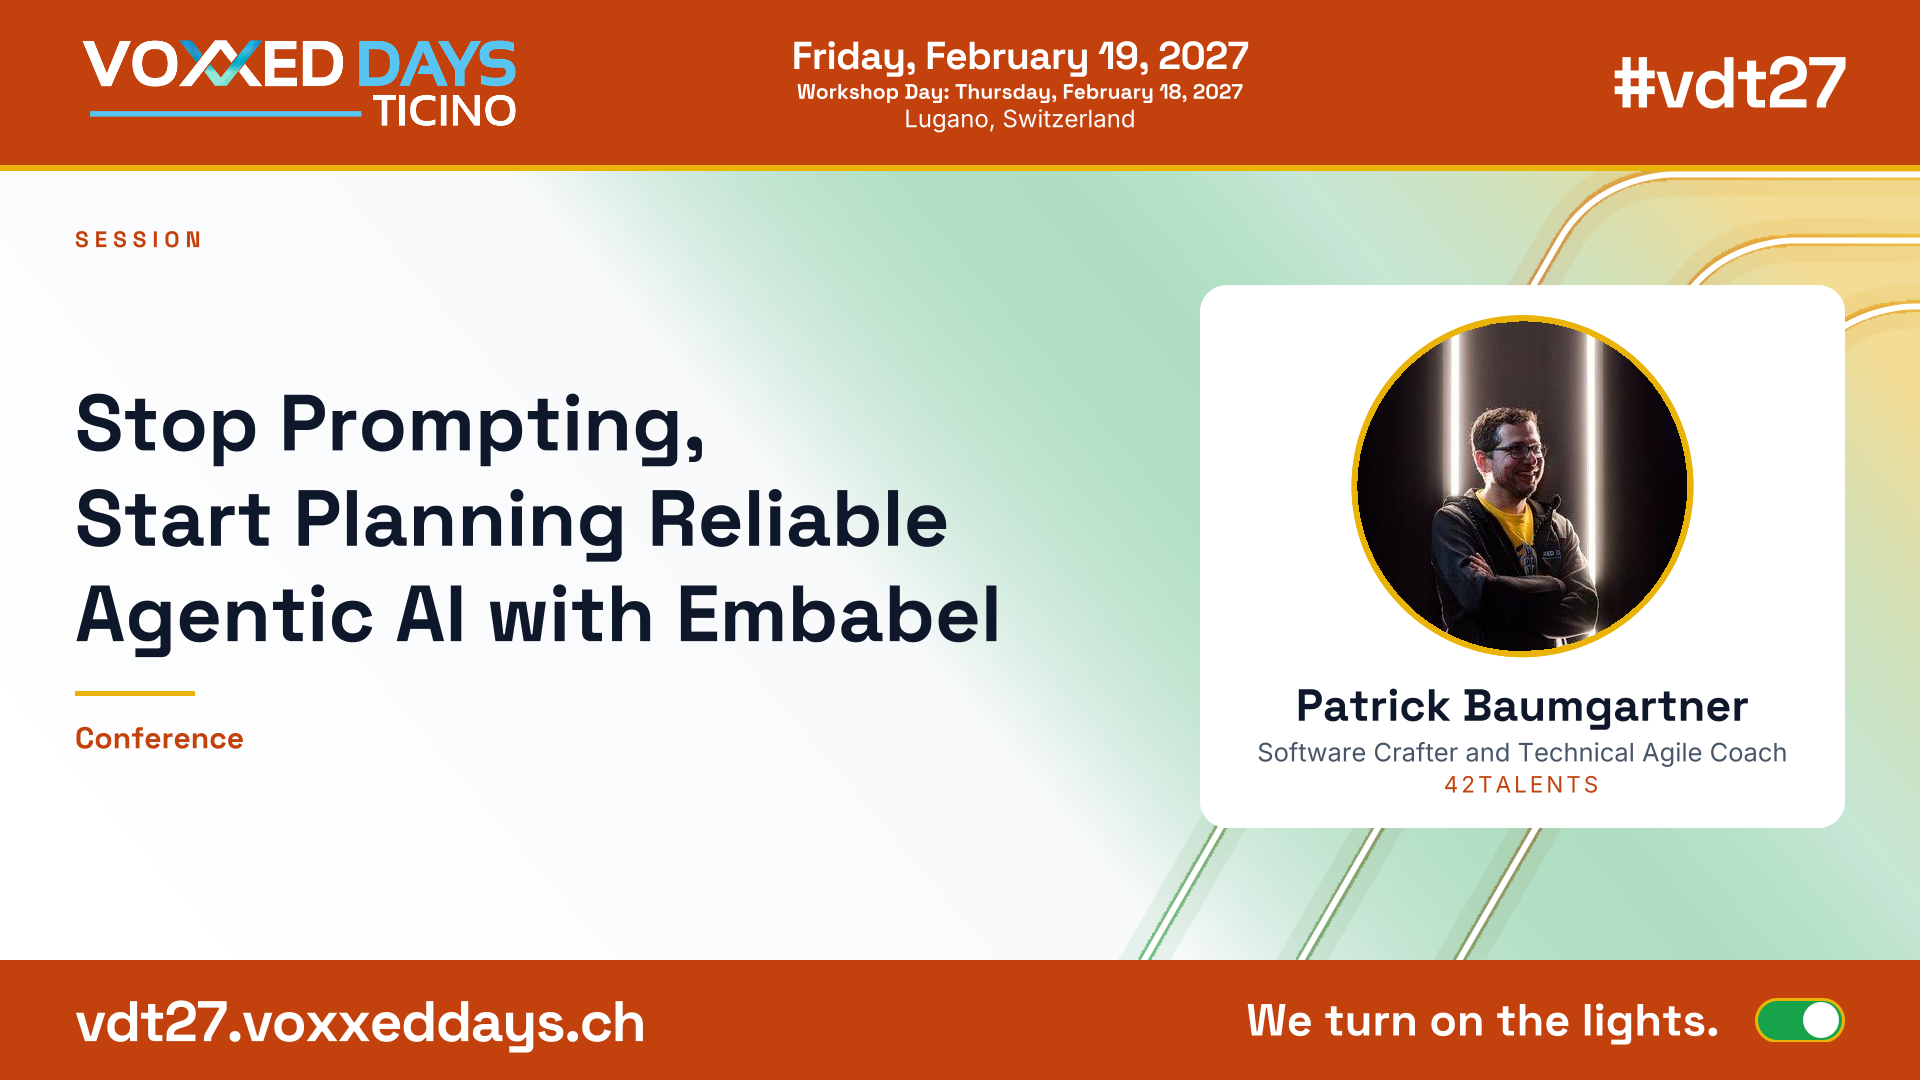
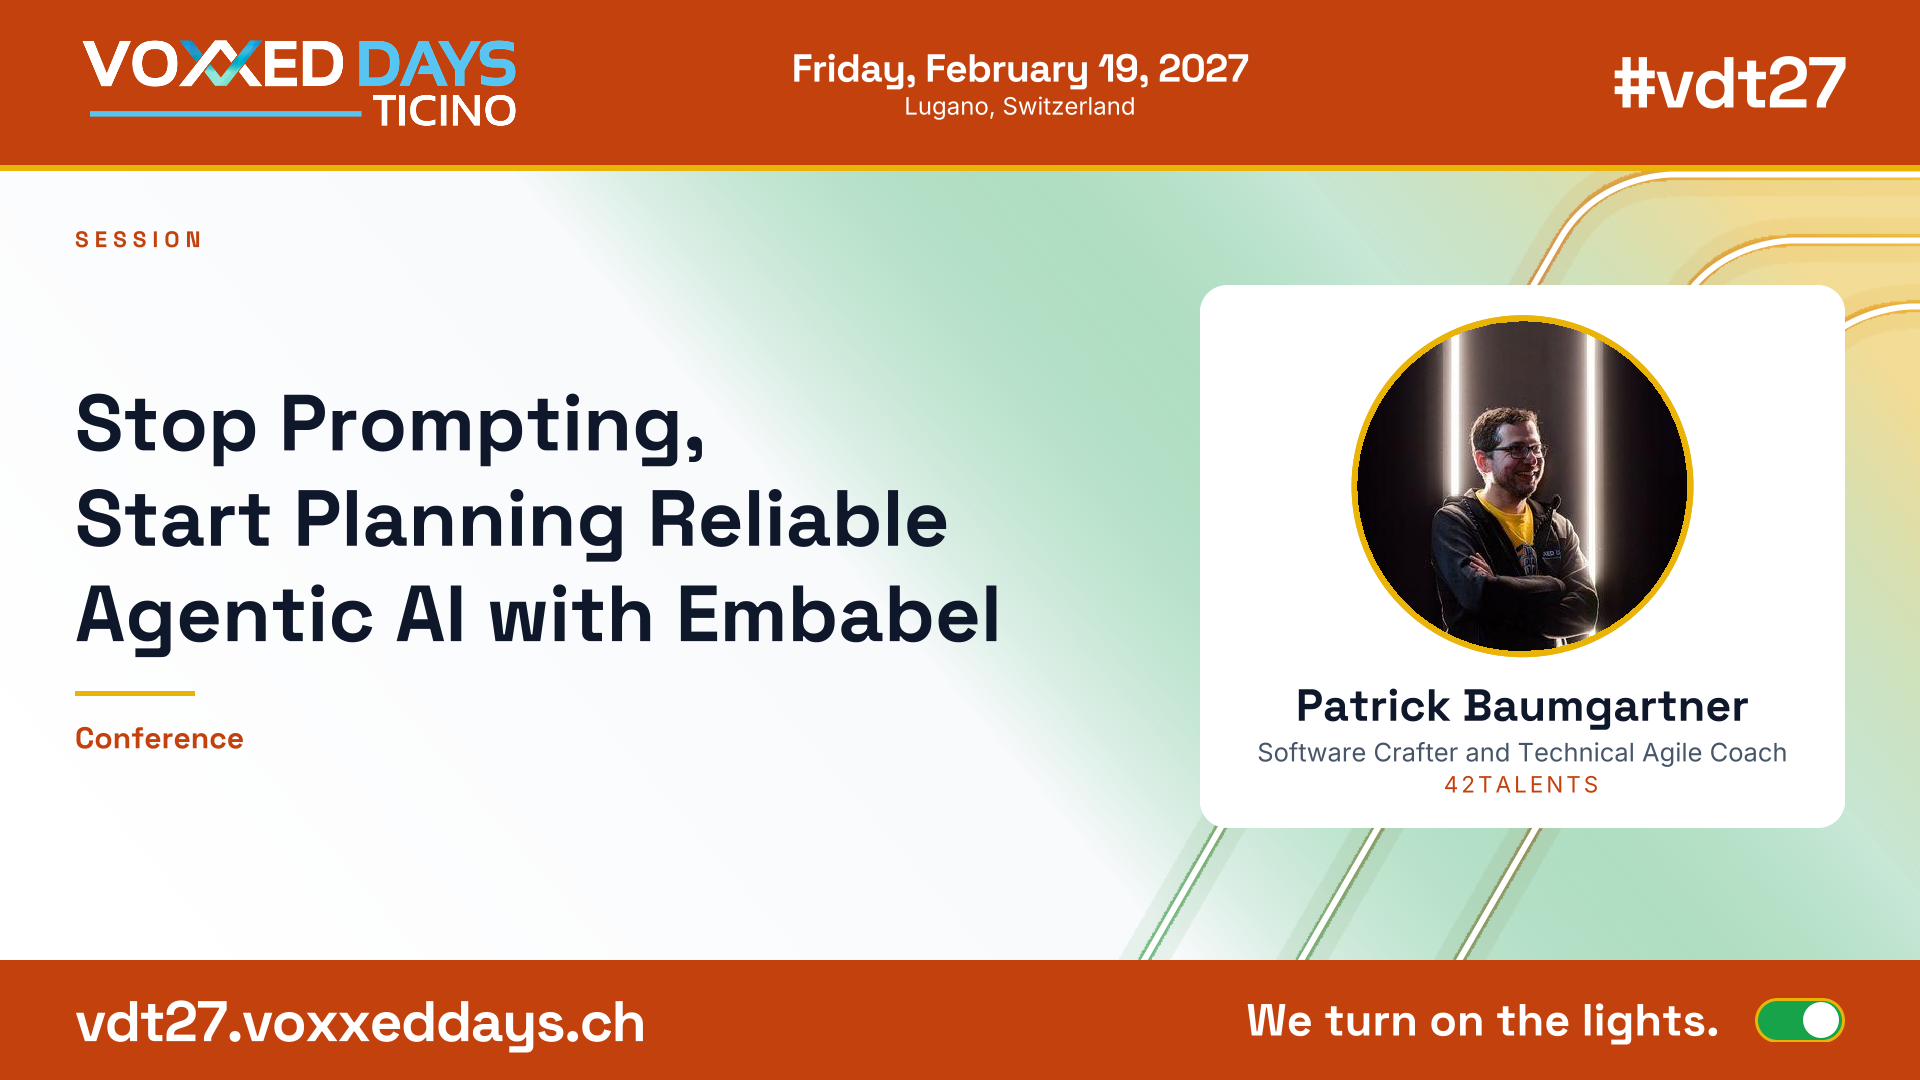
chore: updated sample images

Changed region(s): [[0.4062, 0.0306, 0.6562, 0.1222]]

diff --git a/README.md b/README.md
@@ -13,8 +13,9 @@
 ## 🖼 Preview
 
 These examples use the Voxxed Days Ticino profile and Patrick Baumgartner's
-public CFP session. The header includes the conference and workshop dates;
-the footer features the event-colored "on" switch.
+public CFP session. Session banners show the conference date; general speaker
+and social banners without a session also list the workshop day. The footer
+features the event-colored "on" switch.
 
 **Speaker banner** (1920 × 1080 px)
 
